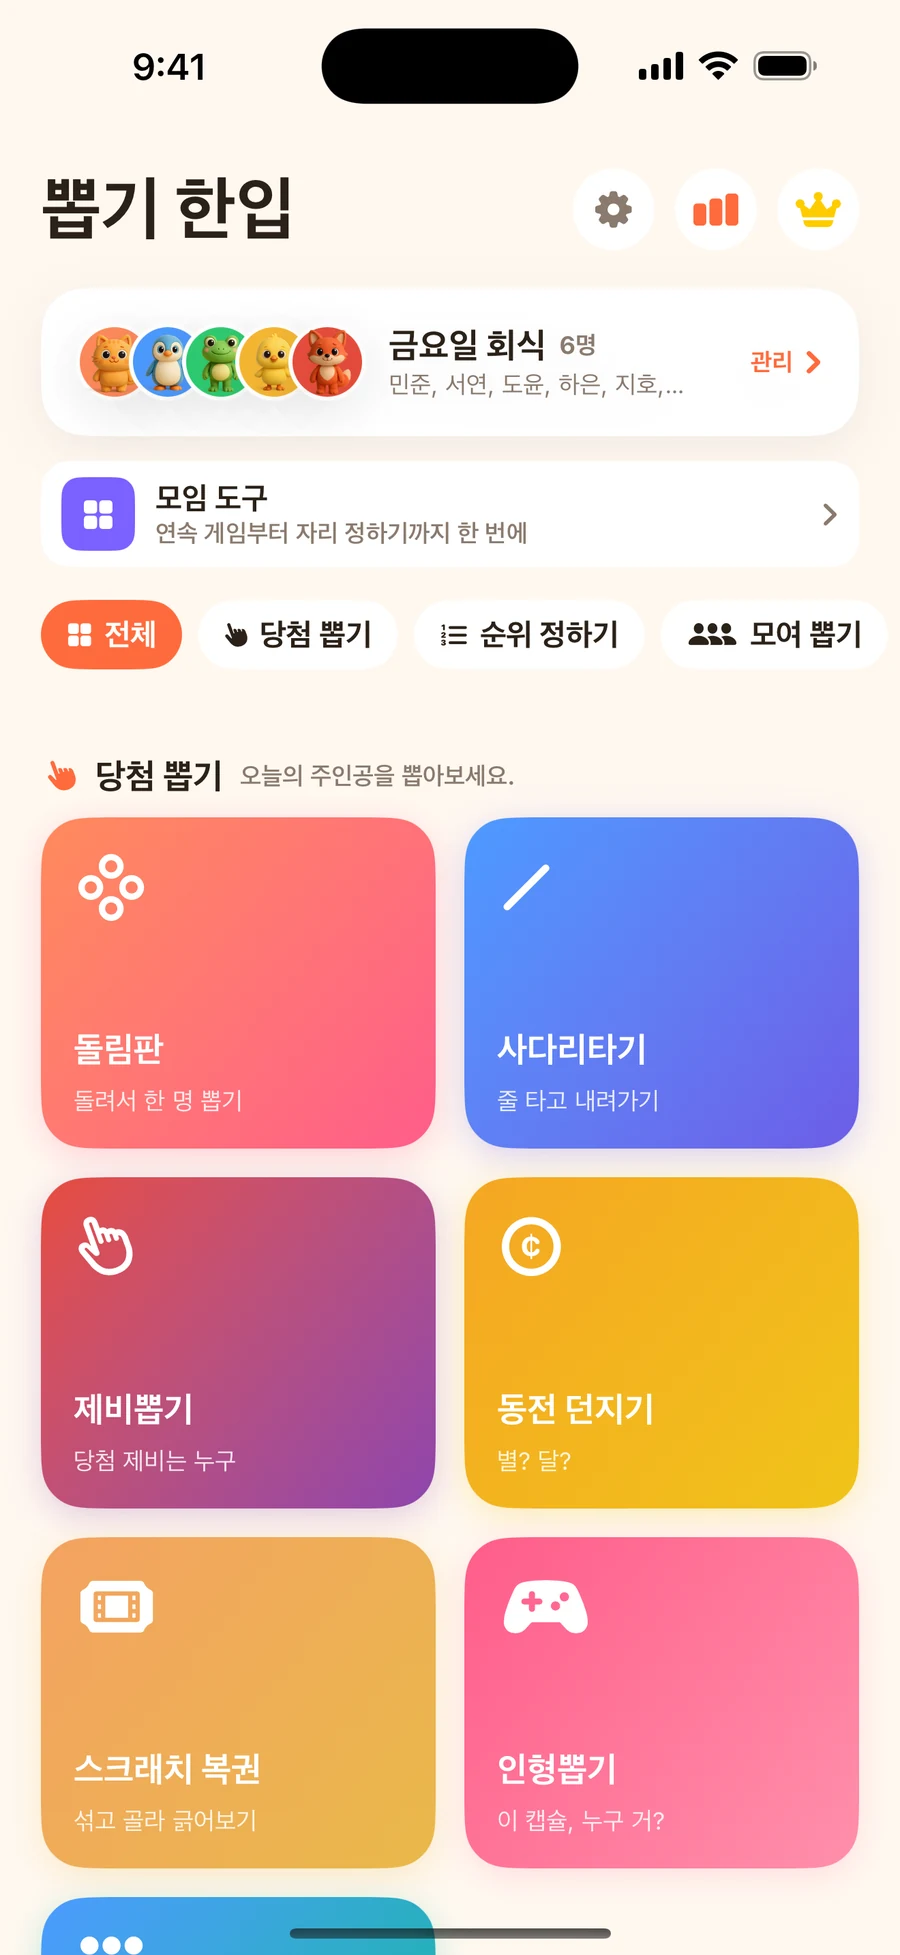
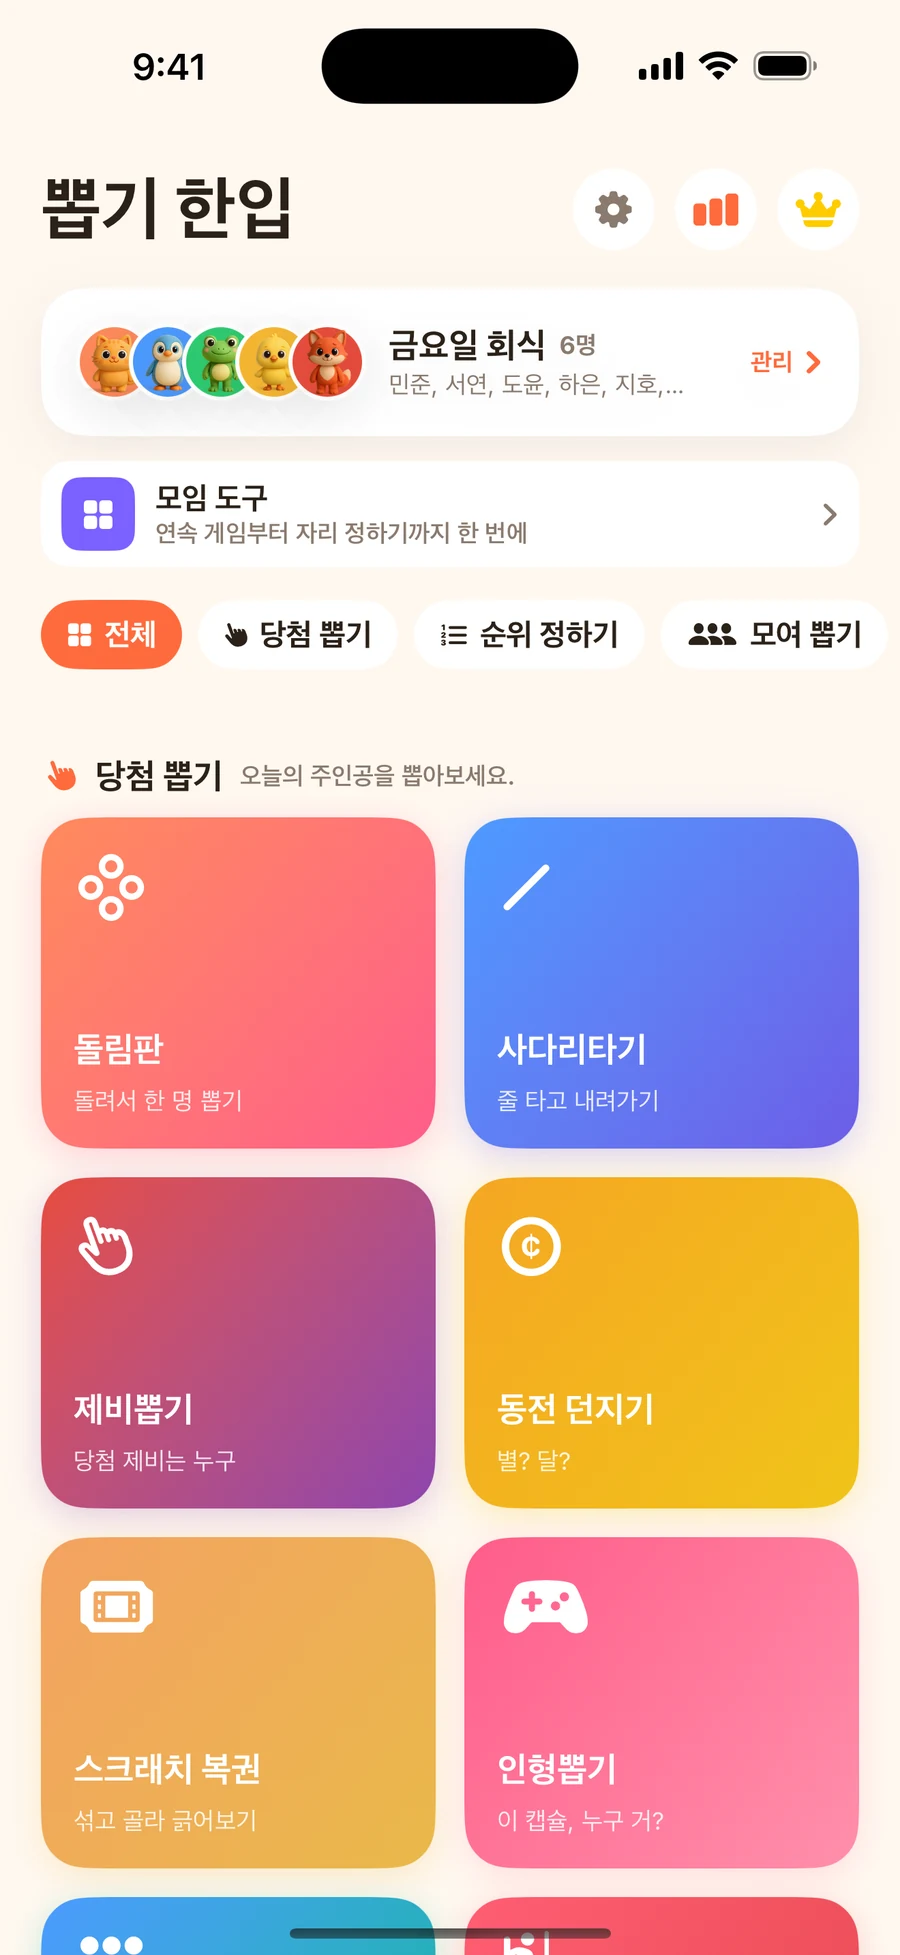
메인: 뽑기 한입 카드 화면을 돌림판 → 홈 화면으로(홈 + 사다리), 소개 페이지 첫 화면 돌림판은 유지
Claude-Session: https://claude.ai/code/session_018Qi31WacdWmHjZtHq7dzZy

Changed region(s): [[0.4978, 0.9673, 0.9644, 1.0]]

diff --git a/docs/lucky-bite/index.html b/docs/lucky-bite/index.html
@@ -5,7 +5,7 @@
 <meta name="naver-site-verification" content="a9b602e1286b3ce70b0e9754a7afbd7effcd1ab8">
 <meta property="og:type" content="website"><meta property="og:locale" content="ko_KR"><meta property="og:site_name" content="Importants Studio"><meta property="og:title" content="사다리타기·룰렛 돌리기·돌림판·제비뽑기 앱 - Lucky Bite"><meta property="og:description" content="사다리타기, 룰렛 돌리기, 돌림판 기능을 활용해 모임의 결정을 빠르게 내려요. 제비뽑기나 당첨자 추첨을 위해 상황에 맞는 배치판을 선택할 수 있어요."><meta property="og:url" content="https://apps.importants-studio.com/lucky-bite/">
 <meta property="og:image" content="https://apps.importants-studio.com/lucky-bite/og.png"><meta property="og:image:width" content="1200"><meta property="og:image:height" content="630"><meta name="twitter:card" content="summary_large_image"><meta name="twitter:title" content="사다리타기·룰렛 돌리기·돌림판·제비뽑기 앱 - Lucky Bite"><meta name="twitter:description" content="사다리타기, 룰렛 돌리기, 돌림판 기능을 활용해 모임의 결정을 빠르게 내려요. 제비뽑기나 당첨자 추첨을 위해 상황에 맞는 배치판을 선택할 수 있어요."><meta name="twitter:image" content="https://apps.importants-studio.com/lucky-bite/og.png">
-<meta name="keywords" content="사다리타기, 룰렛 돌리기, 돌림판, 사다리게임, 사다리타기 게임, 제비뽑기, 원판 돌리기, 당첨자 추첨, 랜덤 뽑기, 복불복, 내기 게임, 팀 나누기, 순서 정하기, 자리 배치"><script type="application/ld+json">{"@context": "https://schema.org", "@type": "SoftwareApplication", "name": "Lucky Bite - 사다리타기·돌림판·제비뽑기", "alternateName": "뽑기 한입", "operatingSystem": "iOS", "applicationCategory": "EntertainmentApplication", "description": "사다리타기, 룰렛 돌리기, 돌림판 기능을 활용해 모임의 결정을 빠르게 내려요. 제비뽑기나 당첨자 추첨을 위해 상황에 맞는 배치판을 선택할 수 있어요.", "keywords": "사다리타기, 룰렛 돌리기, 돌림판, 사다리게임, 사다리타기 게임, 제비뽑기, 원판 돌리기, 당첨자 추첨, 랜덤 뽑기, 복불복, 내기 게임, 팀 나누기, 순서 정하기, 자리 배치", "image": "https://apps.importants-studio.com/lucky-bite/icon.png", "screenshot": ["https://apps.importants-studio.com/lucky-bite/roulette.webp", "https://apps.importants-studio.com/lucky-bite/ladder.webp"], "url": "https://apps.importants-studio.com/lucky-bite/", "installUrl": "https://apps.apple.com/kr/app/lucky-bite-%EC%82%AC%EB%8B%A4%EB%A6%AC%ED%83%80%EA%B8%B0-%EB%8F%8C%EB%A6%BC%ED%8C%90-%EC%A0%9C%EB%B9%84%EB%BD%91%EA%B8%B0/id6824460861", "publisher": {"@type": "Organization", "name": "Importants Studio", "url": "https://apps.importants-studio.com"}, "offers": {"@type": "Offer", "price": "0", "priceCurrency": "KRW"}, "aggregateRating": {"@type": "AggregateRating", "ratingValue": 5, "ratingCount": 1, "bestRating": 5, "worstRating": 1}}</script><script type="application/ld+json">{"@context": "https://schema.org", "@type": "BreadcrumbList", "itemListElement": [{"@type": "ListItem", "position": 1, "name": "Importants Studio", "item": "https://apps.importants-studio.com/"}, {"@type": "ListItem", "position": 2, "name": "뽑기 한입", "item": "https://apps.importants-studio.com/lucky-bite/"}]}</script>
+<meta name="keywords" content="사다리타기, 룰렛 돌리기, 돌림판, 사다리게임, 사다리타기 게임, 제비뽑기, 원판 돌리기, 당첨자 추첨, 랜덤 뽑기, 복불복, 내기 게임, 팀 나누기, 순서 정하기, 자리 배치"><script type="application/ld+json">{"@context": "https://schema.org", "@type": "SoftwareApplication", "name": "Lucky Bite - 사다리타기·돌림판·제비뽑기", "alternateName": "뽑기 한입", "operatingSystem": "iOS", "applicationCategory": "EntertainmentApplication", "description": "사다리타기, 룰렛 돌리기, 돌림판 기능을 활용해 모임의 결정을 빠르게 내려요. 제비뽑기나 당첨자 추첨을 위해 상황에 맞는 배치판을 선택할 수 있어요.", "keywords": "사다리타기, 룰렛 돌리기, 돌림판, 사다리게임, 사다리타기 게임, 제비뽑기, 원판 돌리기, 당첨자 추첨, 랜덤 뽑기, 복불복, 내기 게임, 팀 나누기, 순서 정하기, 자리 배치", "image": "https://apps.importants-studio.com/lucky-bite/icon.png", "screenshot": ["https://apps.importants-studio.com/lucky-bite/home.webp", "https://apps.importants-studio.com/lucky-bite/ladder.webp"], "url": "https://apps.importants-studio.com/lucky-bite/", "installUrl": "https://apps.apple.com/kr/app/lucky-bite-%EC%82%AC%EB%8B%A4%EB%A6%AC%ED%83%80%EA%B8%B0-%EB%8F%8C%EB%A6%BC%ED%8C%90-%EC%A0%9C%EB%B9%84%EB%BD%91%EA%B8%B0/id6824460861", "publisher": {"@type": "Organization", "name": "Importants Studio", "url": "https://apps.importants-studio.com"}, "offers": {"@type": "Offer", "price": "0", "priceCurrency": "KRW"}, "aggregateRating": {"@type": "AggregateRating", "ratingValue": 5, "ratingCount": 1, "bestRating": 5, "worstRating": 1}}</script><script type="application/ld+json">{"@context": "https://schema.org", "@type": "BreadcrumbList", "itemListElement": [{"@type": "ListItem", "position": 1, "name": "Importants Studio", "item": "https://apps.importants-studio.com/"}, {"@type": "ListItem", "position": 2, "name": "뽑기 한입", "item": "https://apps.importants-studio.com/lucky-bite/"}]}</script>
 <meta name="apple-itunes-app" content="app-id=6824460861">
 <script async src="https://www.googletagmanager.com/gtag/js?id=G-YR3RMTS5JD"></script><script>window.dataLayer=window.dataLayer||[];function gtag(){dataLayer.push(arguments)}gtag("js",new Date());gtag("config","G-YR3RMTS5JD");</script><style>*{box-sizing:border-box}html{scroll-behavior:smooth}body{margin:0;-webkit-font-smoothing:antialiased;word-break:keep-all;overflow-x:hidden}
 a{color:inherit;text-decoration:none}img{display:block;max-width:100%}.in{max-width:1200px;margin:0 auto;padding:0 clamp(20px,5vw,56px)}

diff --git a/docs/index.html b/docs/index.html
@@ -31,7 +31,7 @@ body{font-family:"Pretendard Variable",Pretendard,sans-serif;background:#FAFAF8;
 @media(max-width:860px){.wall{grid-template-columns:1fr}.cw{grid-column:auto;height:auto;flex-direction:column}.cw .ph{height:300px;padding-top:30px;flex:none}.c0,.c3,.c6{grid-column:auto;flex-direction:column}.c0 .tx,.c3 .tx,.c6 .tx{padding:40px 30px 0}.card .tx{padding:36px 30px 0}.ph .phone,.c0 .ph .phone,.c3 .ph .phone,.c6 .ph .phone{--w:140px}.ph{gap:12px;height:300px}.c0 .ph,.c3 .ph,.c6 .ph{height:300px;padding-top:30px;flex:none}.card{min-height:0}}</style></head><body>
 <nav class=""><div class="in"><a class="brand" href="https://importants-studio.com/"><img src="/mark.png" alt="" width="24" height="24"><b>Importants Studio</b></a><div class="links"><a href="/lucky-bite/">뽑기 한입</a><a href="/floorlog/">FloorLog</a><a href="/reckoner/">Reckoner</a><a href="/quiz-bite/">퀴즈 한입</a><a href="/maejeum/">맺음</a><a href="/chaekkan/">책칸</a><a href="/officekit/">오피스킷</a><a href="/fairlypaid/">일한만큼 받자</a></div></div></nav>
 <header class="hero"><div class="in r"><h1>생활 속 필요한 순간<br>바로 꺼내 쓰는 앱</h1><p>아이폰 앱을 만드는 1인 스튜디오 Importants Studio입니다.</p></div></header><div class="in wall"><a class="card c0 k-lucky-bite r" href="/lucky-bite/" style="--bg:#FFF1E6;--fg:#2A1A10;--ac:#FF7A3D"><div class="tx"><span class="nm"><img src="/lucky-bite/icon.png" alt="">뽑기 한입</span><h2>순서를 정할 때<br>고민을 끝내요</h2><span class="go">자세히 보기 →</span></div>
-<div class="ph"><div class="phone " style=""><img src="/lucky-bite/roulette.webp" alt="뽑기 한입" loading="lazy"></div><div class="phone " style=""><img src="/lucky-bite/ladder.webp" alt="뽑기 한입" loading="lazy"></div></div></a><a class="card c1 k-floorlog r" href="/floorlog/" style="--bg:#E3EDEB;--fg:#1D2B2B;--ac:#2C6A68"><div class="tx"><span class="nm"><img src="/floorlog/icon.png" alt="">FloorLog</span><h2>층간소음<br>기록으로 남겨요</h2><span class="go">자세히 보기 →</span></div>
+<div class="ph"><div class="phone " style=""><img src="/lucky-bite/home.webp" alt="뽑기 한입" loading="lazy"></div><div class="phone " style=""><img src="/lucky-bite/ladder.webp" alt="뽑기 한입" loading="lazy"></div></div></a><a class="card c1 k-floorlog r" href="/floorlog/" style="--bg:#E3EDEB;--fg:#1D2B2B;--ac:#2C6A68"><div class="tx"><span class="nm"><img src="/floorlog/icon.png" alt="">FloorLog</span><h2>층간소음<br>기록으로 남겨요</h2><span class="go">자세히 보기 →</span></div>
 <div class="ph"><div class="phone " style=""><img src="/floorlog/record.webp" alt="FloorLog" loading="lazy"></div><div class="phone " style=""><img src="/floorlog/pattern.webp" alt="FloorLog" loading="lazy"></div></div></a><a class="card c2 k-reckoner r" href="/reckoner/" style="--bg:#F1EEE7;--fg:#141414;--ac:#FF5B14"><div class="tx"><span class="nm"><img src="/reckoner/icon.png" alt="">Reckoner</span><h2>흐름을 끊지 않는<br>정확한 점수 기록</h2><span class="go">자세히 보기 →</span></div>
 <div class="ph"><div class="phone " style=""><img src="/reckoner/picker.webp" alt="Reckoner" loading="lazy"></div><div class="phone " style=""><img src="/reckoner/live.webp" alt="Reckoner" loading="lazy"></div></div></a><a class="card c3 k-quiz-bite r" href="/quiz-bite/" style="--bg:#EAF0FF;--fg:#1B2440;--ac:#4F7CFF"><div class="tx"><span class="nm"><img src="/quiz-bite/icon.png" alt="">퀴즈 한입</span><h2>매일 채워지는 상식<br>한입 크기 퀴즈</h2><span class="go">자세히 보기 →</span></div>
 <div class="ph"><div class="phone " style=""><img src="/quiz-bite/home.webp" alt="퀴즈 한입" loading="lazy"></div><div class="phone " style=""><img src="/quiz-bite/map.webp" alt="퀴즈 한입" loading="lazy"></div></div></a><a class="card c4 k-maejeum r" href="/maejeum/" style="--bg:#EFECE5;--fg:#2B2B2D;--ac:#4A5C52"><div class="tx"><span class="nm"><img src="/maejeum/icon.png" alt="">맺음</span><h2 style="font-family:'Nanum Myeongjo',serif">장례 절차를<br>차근차근 준비해요</h2><span class="go">자세히 보기 →</span></div>
